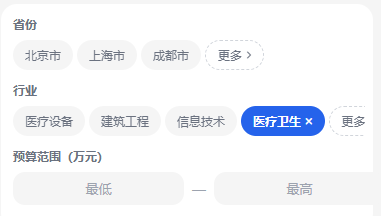
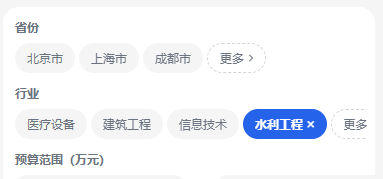
fix: 筛选按钮替换示例逻辑，确保不超出屏幕
1. 搜索页面(search)
   - 省份筛选：始终显示3个示例（动态替换）
   - 行业筛选：始终显示3个示例（动态替换）
   - 用户从"更多"选择时，替换最后一个示例

2. 潜在客户页面(potential-customers)
   - 行业筛选：始终显示3个示例（动态替换）
   - 用户从"更多"选择时，替换最后一个示例

3. 效果
   - 默认显示：[示例1] [示例2] [示例3] [更多]
   - 选择新选项后：[示例1] [示例2] [新选项] [更多]
   - 总共只有4个按钮，不会超出屏幕

diff --git a/client/screens/search/index.tsx b/client/screens/search/index.tsx
@@ -71,6 +71,10 @@ export default function SearchScreen() {
   const [results, setResults] = useState<Bid[]>([]);
   const [loading, setLoading] = useState(false);
   const [hasSearched, setHasSearched] = useState(false);
+  
+  // 动态筛选示例列表（当用户选择不在示例中的选项时，替换最后一个）
+  const [provinceExamples, setProvinceExamples] = useState<string[]>(DEFAULT_PROVINCE_EXAMPLES);
+  const [industryExamples, setIndustryExamples] = useState<string[]>(DEFAULT_INDUSTRY_EXAMPLES);
 
   // 初始化：获取筛选数据
   useEffect(() => {
@@ -189,6 +193,12 @@ export default function SearchScreen() {
 
   // 从"更多"选择省份
   const handleProvinceFromMore = (provinceName: string) => {
+    // 如果选中的省份不在当前示例列表中，替换最后一个示例
+    if (!provinceExamples.includes(provinceName)) {
+      const newExamples = [...provinceExamples];
+      newExamples[newExamples.length - 1] = provinceName;
+      setProvinceExamples(newExamples);
+    }
     setSelectedProvince(provinceName);
     // 选择省份后自动搜索
     setTimeout(() => {
@@ -211,6 +221,12 @@ export default function SearchScreen() {
 
   // 从"更多"选择行业
   const handleIndustryFromMore = (industryName: string) => {
+    // 如果选中的行业不在当前示例列表中，替换最后一个示例
+    if (!industryExamples.includes(industryName)) {
+      const newExamples = [...industryExamples];
+      newExamples[newExamples.length - 1] = industryName;
+      setIndustryExamples(newExamples);
+    }
     setSelectedIndustry(industryName);
     setKeyword(industryName);
     
@@ -437,21 +453,11 @@ export default function SearchScreen() {
             <View style={styles.filterScrollWrapper}>
               <ScrollView horizontal showsHorizontalScrollIndicator={false} style={styles.filterScroll}>
                 {/* 显示3个示例省份 */}
-                {DEFAULT_PROVINCE_EXAMPLES.map((name, index) =>
+                {provinceExamples.map((name, index) =>
                   renderFilterChip(
                     { id: index, name },
                     selectedProvince === name,
                     () => handleProvinceSelect(name)
-                  )
-                )}
-                {/* 如果选中的省份不在示例中，额外显示 */}
-                {selectedProvince && !DEFAULT_PROVINCE_EXAMPLES.includes(selectedProvince) && (
-                  renderFilterChip(
-                    { id: -2, name: selectedProvince },
-                    true,
-                    () => handleProvinceSelect(''),
-                    false,
-                    true
                   )
                 )}
                 {/* 更多按钮 */}
@@ -471,21 +477,11 @@ export default function SearchScreen() {
             <View style={styles.filterScrollWrapper}>
               <ScrollView horizontal showsHorizontalScrollIndicator={false} style={styles.filterScroll}>
                 {/* 显示3个示例行业 */}
-                {DEFAULT_INDUSTRY_EXAMPLES.map((name, index) =>
+                {industryExamples.map((name, index) =>
                   renderFilterChip(
                     { id: index, name },
                     selectedIndustry === name,
                     () => handleIndustrySelect(name)
-                  )
-                )}
-                {/* 如果选中的行业不在示例中，额外显示 */}
-                {selectedIndustry && !DEFAULT_INDUSTRY_EXAMPLES.includes(selectedIndustry) && (
-                  renderFilterChip(
-                    { id: -2, name: selectedIndustry },
-                    true,
-                    () => handleIndustrySelect(''),
-                    false,
-                    true
                   )
                 )}
                 {/* 更多按钮 */}

diff --git a/client/screens/potential-customers/index.tsx b/client/screens/potential-customers/index.tsx
@@ -60,6 +60,9 @@ export default function PotentialCustomersScreen() {
   const [page, setPage] = useState(1);
   const [total, setTotal] = useState(0);
   const [hasMore, setHasMore] = useState(true);
+  
+  // 动态筛选示例列表（当用户选择不在示例中的选项时，替换最后一个）
+  const [industryExamples, setIndustryExamples] = useState<string[]>(DEFAULT_INDUSTRY_EXAMPLES);
 
   // 监听参数变化，更新筛选状态
   useEffect(() => {
@@ -221,6 +224,12 @@ export default function PotentialCustomersScreen() {
 
   // 从"更多"选择行业
   const handleIndustryFromMore = (industryName: string) => {
+    // 如果选中的行业不在当前示例列表中，替换最后一个示例
+    if (!industryExamples.includes(industryName)) {
+      const newExamples = [...industryExamples];
+      newExamples[newExamples.length - 1] = industryName;
+      setIndustryExamples(newExamples);
+    }
     setSelectedIndustry(industryName);
     setKeyword(industryName);
   };
@@ -462,7 +471,7 @@ export default function PotentialCustomersScreen() {
             <View style={styles.filterScrollWrapper}>
               <ScrollView horizontal showsHorizontalScrollIndicator={false} style={styles.filterScroll}>
                 {/* 显示3个示例行业 */}
-                {DEFAULT_INDUSTRY_EXAMPLES.map((name, index) => {
+                {industryExamples.map((name, index) => {
                   const isSelected = selectedIndustry === name;
                   return (
                     <TouchableOpacity
@@ -480,22 +489,6 @@ export default function PotentialCustomersScreen() {
                     </TouchableOpacity>
                   );
                 })}
-                {/* 如果选中的行业不在示例中，额外显示 */}
-                {selectedIndustry && !DEFAULT_INDUSTRY_EXAMPLES.includes(selectedIndustry) && (
-                  <TouchableOpacity
-                    style={[styles.filterChip, styles.filterChipActive]}
-                    onPress={() => handleIndustryChipSelect(selectedIndustry)}
-                  >
-                    <Text 
-                      style={[styles.filterChipText, styles.filterChipTextActive]}
-                      numberOfLines={1}
-                      adjustsFontSizeToFit={true}
-                    >
-                      {selectedIndustry}
-                    </Text>
-                    <FontAwesome6 name="xmark" size={10} color="#FFFFFF" style={{ marginLeft: 4 }} />
-                  </TouchableOpacity>
-                )}
                 {/* 更多按钮 */}
                 <TouchableOpacity
                   style={[styles.filterChip, styles.filterChipMore]}
